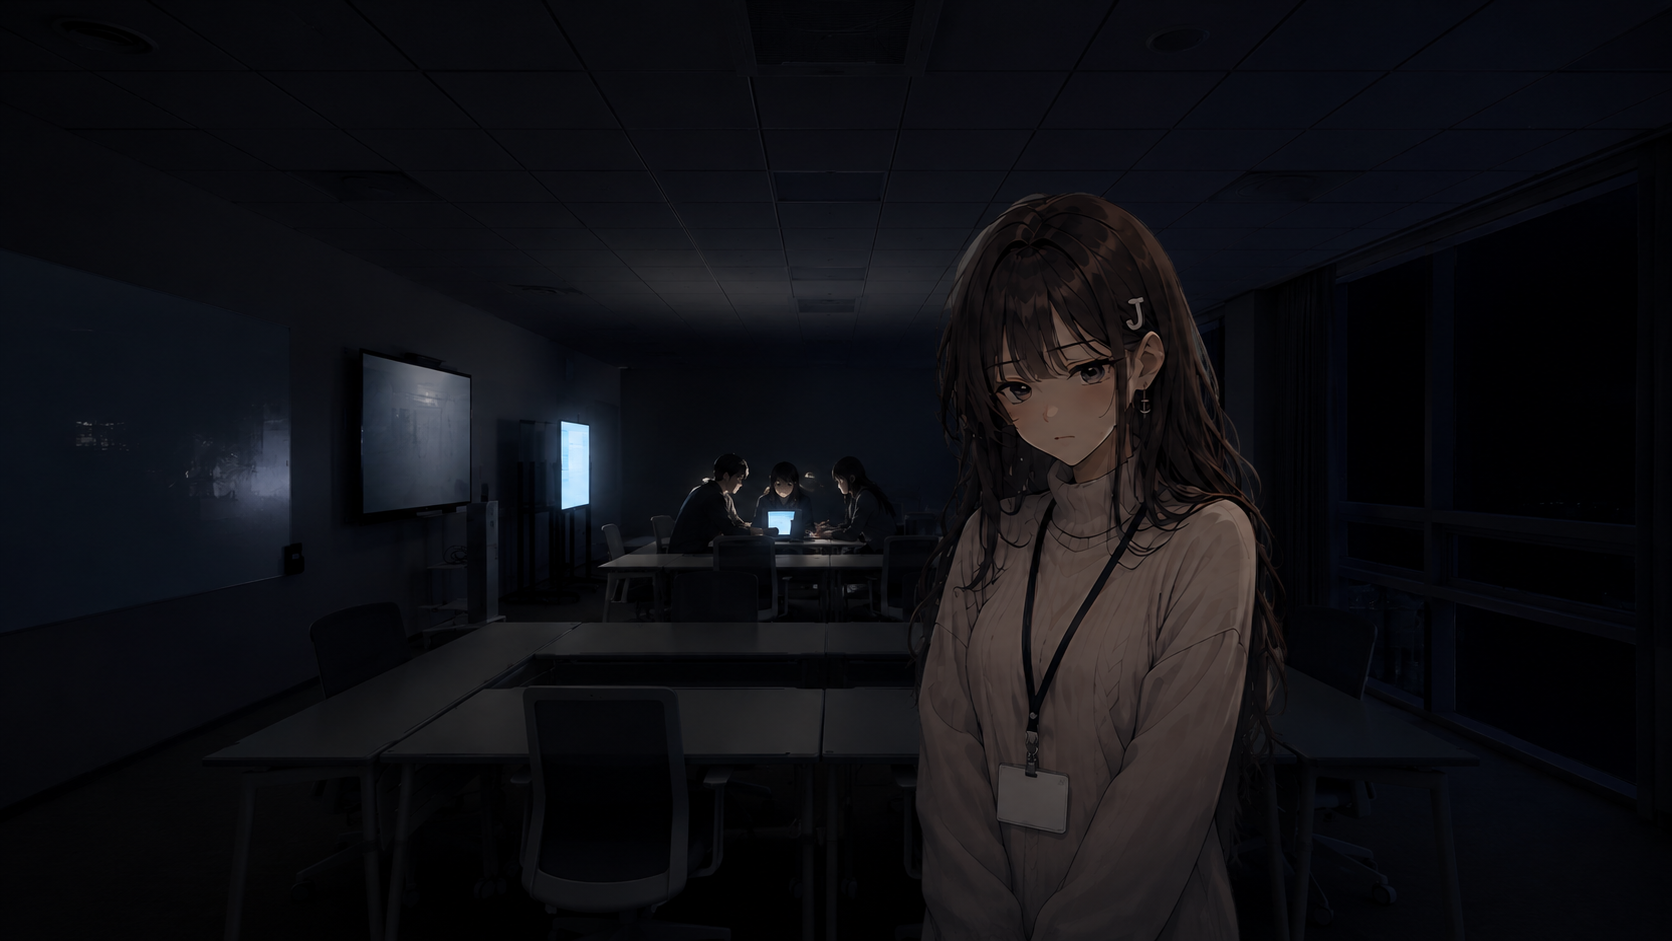
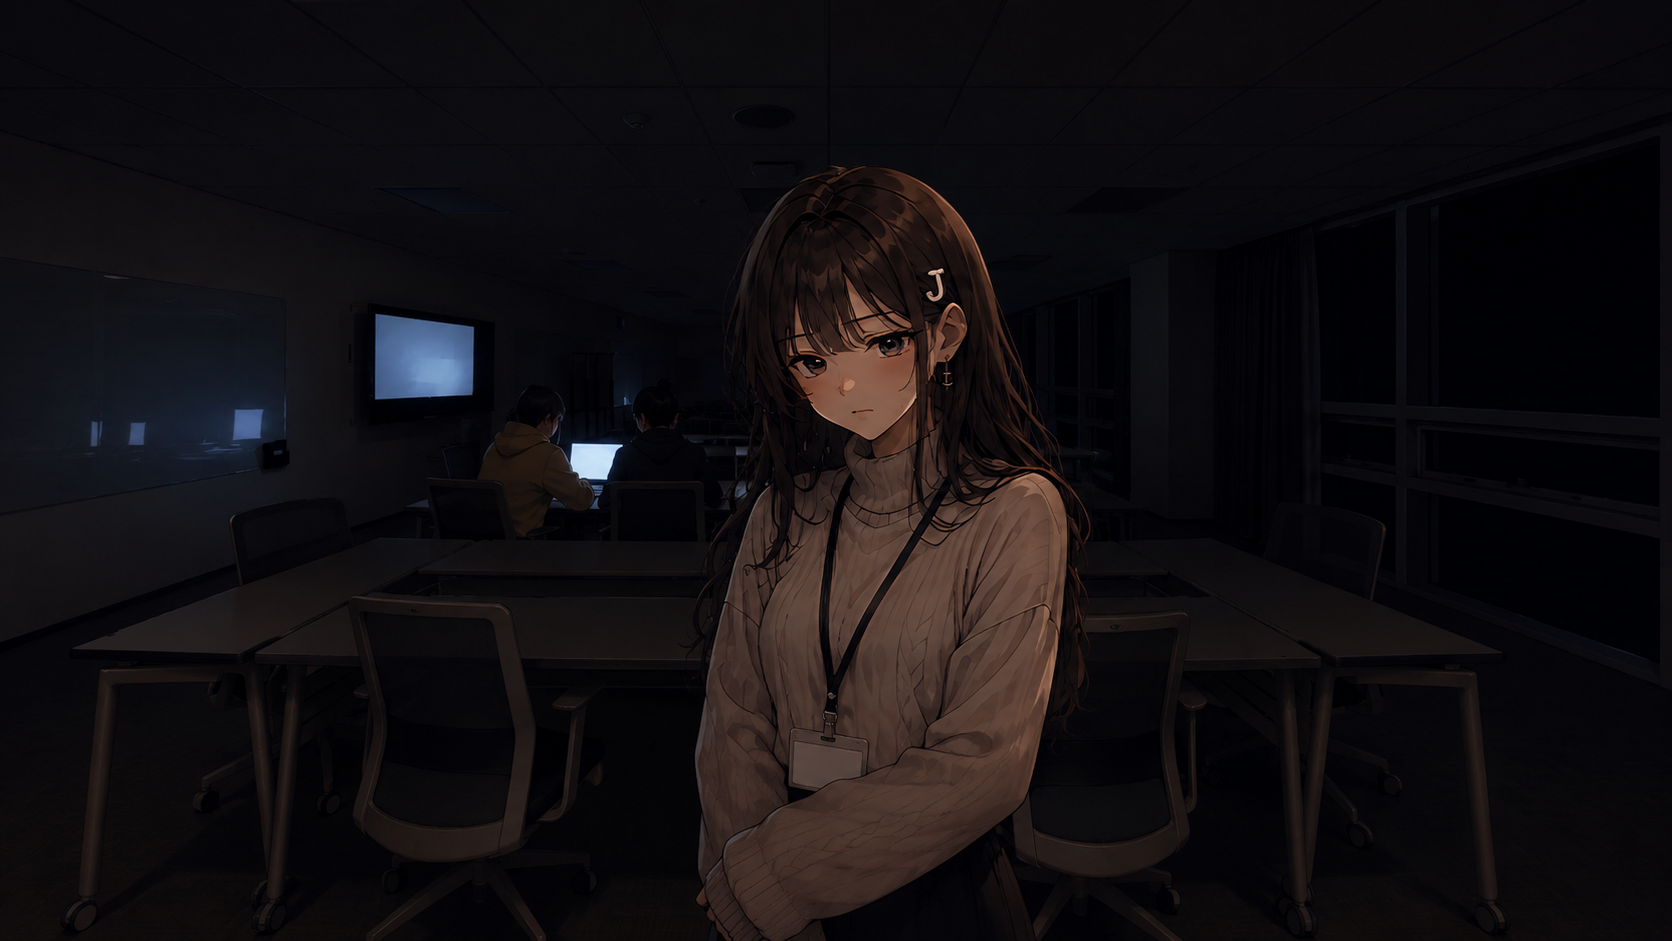
fix: 민아 엔딩 — 무표정과 침울은 시선으로 갈린다
기본 칸을 물렸더니 모니터를 내려다보며 지친 직장인이 나왔다.
엔딩은 플레이어가 마지막으로 보는 그림인데 침울하면 루트가 헛돈다.

  일하다 고개를 들어 화면 이쪽을 봄, 눈이 마주친 상태,
  크게 웃지는 않지만 눈매가 풀려 있음, 익숙한 사람을 볼 때의 얼굴,
  이제 퇴근하자는 눈짓

주인공은 1인칭이라 화면 이쪽이 그 자리다. 시선이 모니터를 향하면
"퇴근은 같이 함" 이 그림에 없다.

기쁨 칸으로 바꾸지 않는다
  칸은 얼굴을 정하고 시선과 맥락이 감정을 정한다. 클라이맥스에서
  두 번 확인했다 — 화남 칸이 지침으로, 놀람 칸이 "깜짝이야" 로
  굴러갔고 둘 다 문장으로 고쳤다. 칸을 바꿔도 시선이 모니터면
  "혼자 웃는 사람" 이 될 뿐이다.
  그리고 민아의 기쁨은 눈 감고 입 벌려 웃는 그림인데 이 컷은
  특별할 것 없는 저녁의 익숙함이다. 열이틀 내내 무표정이던 사람은
  눈매만 풀려도 그게 더 큰 변화로 읽힌다.

엔딩 표정 칸 여섯을 다시 봤고 바꿀 게 없었다. 승민이 특히 기본이어야
한다 — 쾌활함이 연기였다고 인정한 사람이라 활짝 웃으면 클라이맥스에서
벗겨낸 그 웃음이 돌아온다.

배경·복장은 통과했다. 검은 니트에 크림 카디건, 머리를 풀었고,
랜야드에 사원증. J 로고와 머리핀이 사라져 캠프 흔적이 정확히 빠졌다.

diff --git a/tools/gen_prompts.py b/tools/gen_prompts.py
@@ -86,7 +86,18 @@ HEROINES = [
             모니터 빛이 아래에서 얼굴을 비춤
         """),
         ending_age=27, ending_bg="office",
-        ending="같은 회사 다른 팀, 여전히 코드 리뷰로 다투고 퇴근은 같이 함",
+        # 표정 칸만으로는 안 된다. 기본 칸을 물렸더니 침울로 굴러갔다.
+        # 칸은 얼굴을 정하고 시선과 맥락이 감정을 정한다 — 클라이맥스에서
+        # 이미 두 번 확인했다. 주인공은 1인칭이라 화면 이쪽이 그 자리다.
+        # 기쁨 칸으로 바꾸지 않는 이유: 민아의 기쁨은 눈 감고 입 벌려 웃는
+        # 그림인데 이 컷은 특별할 것 없는 저녁의 익숙함이다. 열이틀 내내
+        # 무표정이던 사람은 눈매만 풀려도 그게 더 큰 변화로 읽힌다.
+        ending=block("""
+            같은 회사 다른 팀, 여전히 코드 리뷰로 다투고 퇴근은 같이 함.
+            일하다 고개를 들어 화면 이쪽을 봄, 눈이 마주친 상태,
+            크게 웃지는 않지만 눈매가 풀려 있음, 익숙한 사람을 볼 때의 얼굴,
+            이제 퇴근하자는 눈짓
+        """),
         ending_wear=block("""
             카디건 안에 검은 니트, 어깨 길이로 느슨하게 푼 머리,
             랜야드에 사원증

diff --git a/docs/reference/character/prompts/04_still/T13_minah_ending.md b/docs/reference/character/prompts/04_still/T13_minah_ending.md
@@ -37,6 +37,9 @@
 현대적인 개방형 사무실 실내, 늦은 오후의 빛, 차분한 공기.
 
 27세, 같은 회사 다른 팀, 여전히 코드 리뷰로 다투고 퇴근은 같이 함.
+일하다 고개를 들어 화면 이쪽을 봄, 눈이 마주친 상태,
+크게 웃지는 않지만 눈매가 풀려 있음, 익숙한 사람을 볼 때의 얼굴,
+이제 퇴근하자는 눈짓.
 
 카디건 안에 검은 니트, 어깨 길이로 느슨하게 푼 머리,
 랜야드에 사원증.
